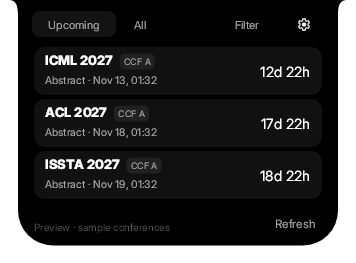
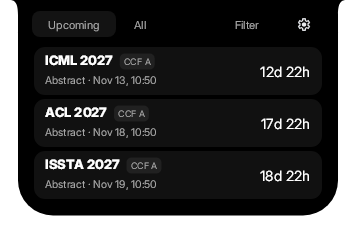
Remove island list footer and tighten panel spacing

diff --git a/windows-island/UiRegressionChecks.cs b/windows-island/UiRegressionChecks.cs
@@ -20,12 +20,11 @@ internal static class UiRegressionChecks
         var originalRows = model.Rows;
         var originalPreferences = model.Preferences;
         var originalSave = model.SavePreferences;
-        var originalRefresh = model.Refresh;
         int originalSelection = model.SelectedIndex;
         var conferences = originalRows.Select(row => row.Conference).ToArray();
         string folder = Path.Combine(Path.GetTempPath(), "ccf-island-ui-" + Guid.NewGuid().ToString("N"));
         string settings = Path.Combine(folder, "settings.json");
-        int checks = 0, saves = 0, refreshes = 0;
+        int checks = 0, saves = 0;
         void Check(bool success, string description)
         {
             if (!success) throw new InvalidOperationException("Production UI: " + description);
@@ -61,10 +60,9 @@ internal static class UiRegressionChecks
                 if (!model.Preferences.Save(settings)) throw new InvalidOperationException("Cannot save temporary UI preferences");
                 model.Rows = model.Preferences.Visible(conferences, DateTimeOffset.UtcNow);
             };
-            model.Refresh = () => refreshes++;
 
             Page("widgets");
-            Check(menu.IslandSizeBig().X == 320 && menu.IslandSizeBig().Y == 248, "three-conference layout is 320x248 DIP");
+            Check(menu.IslandSizeBig().X == 320 && menu.IslandSizeBig().Y == 218, "three-conference layout is 320x218 DIP");
             Check(!menu.UiObjects.Any(item => item.GetType().Name == "DWImageButton"), "no music transport controls");
             Click("nav.filters"); renderer.Settle(true);
             Check(menu.Page == "filters" && menu.IslandSizeBig().Y == 288, "compact filters page");
@@ -126,7 +124,6 @@ internal static class UiRegressionChecks
             Click("display.animations");
 
             Page("widgets");
-            Click("list.refresh"); Check(refreshes == 1, "refresh is reachable from list footer");
             string selectedId = ((ConferenceMenu.ConferenceRow)Control("upcoming.row.1")).BoundId;
             Click("upcoming.row.1"); renderer.Settle(true);
             Check(menu.Page == "details" && menu.Selected?.Id == selectedId, "conference row opens its own deadline details");
@@ -153,13 +150,13 @@ internal static class UiRegressionChecks
                 model.Rows = new Preferences().Visible(conferences.Take(count), now);
                 Page("widgets");
                 Check(Enumerable.Range(0, 3).Count(index => Control("upcoming.row." + index).ImmediateInputEnabled) == count, count + " conferences expose exactly the available rows");
-                float expected = count == 0 ? 160 : 92 + 52 * count;
+                float expected = count == 0 ? 146 : 62 + 52 * count;
                 Check(menu.IslandSizeBig().Y == expected, count + " conferences use compact non-overlapping geometry");
                 var island = renderer.MainIsland.GetRect().Rect;
                 for (int index = 0; index < count; index++)
                 {
                     var bounds = Control("upcoming.row." + index).GetInputRect().Rect;
-                    Check(bounds.Left >= island.Left && bounds.Right <= island.Right && bounds.Top >= island.Top + 48 && bounds.Bottom <= island.Bottom - 40, "row stays inside shell and above footer");
+                    Check(bounds.Left >= island.Left && bounds.Right <= island.Right && bounds.Top >= island.Top + 48 && bounds.Bottom <= island.Bottom - 16, "row stays inside shell with bottom padding");
                 }
             }
             var longTitle = conferences[0] with { Id = "long-title", Title = "International Conference on a Very Long Conference Name for Layout Verification" };
@@ -182,7 +179,7 @@ internal static class UiRegressionChecks
                 Deadlines = new() { later with { Utc = now.AddDays(index + 2) } }
             }).ToArray();
             model.Rows = new Preferences().Visible(allConferences, now); Page("list");
-            Check(menu.IslandSizeBig().Y == 360, "all-conferences page has separate scrollable height");
+            Check(menu.IslandSizeBig().Y == 322, "all-conferences page has separate scrollable height");
             Check(((ConferenceMenu.ConferenceRow)Control("list.row.0")).BoundId == "scroll-0", "all-conferences list starts at first row");
             menu.Scroll(-120); renderer.Settle(true);
             Check(((ConferenceMenu.ConferenceRow)Control("list.row.0")).BoundId == "scroll-1", "all-conferences list scrolls through later rows");
@@ -213,7 +210,7 @@ internal static class UiRegressionChecks
         {
             renderer.Input.CancelAll();
             model.Rows = originalRows; model.Preferences = originalPreferences; model.SavePreferences = originalSave;
-            model.Refresh = originalRefresh; model.SelectedIndex = originalSelection;
+            model.SelectedIndex = originalSelection;
             menu.ShowPage("widgets"); renderer.Settle(true);
             if (File.Exists(settings)) File.Delete(settings);
             if (Directory.Exists(folder)) Directory.Delete(folder);

diff --git a/windows-island/DynamicWinHost/ConferenceMenu.cs b/windows-island/DynamicWinHost/ConferenceMenu.cs
@@ -52,12 +52,9 @@ public sealed class ConferenceMenu : IIslandMenu
     private readonly ToggleButton _submission;
     private readonly ToggleButton _animations;
     private readonly Label _empty;
-    private readonly Label _status;
-    private readonly Label _pageNumber;
     private readonly Label _detailTitle;
     private readonly Label _detailPage;
     private readonly DeadlinePanel[] _detailPanels = new DeadlinePanel[2];
-    private readonly MenuButton _refresh;
     private readonly MenuButton _emptyAction;
     private readonly MenuButton _previousDeadlines;
     private readonly MenuButton _nextDeadlines;
@@ -110,10 +107,6 @@ public sealed class ConferenceMenu : IIslandMenu
         {
             if (HasFilters()) ResetFilters(); else _model.Refresh?.Invoke();
         });
-        _status = new Label(island, 16, 220, 176, 17, 10, Theme.TextThird);
-        _pageNumber = new Label(island, 190, 334, 54, 17, 10, Theme.TextThird) { Center = true };
-        UiObjects.Add(_status); UiObjects.Add(_pageNumber);
-        _refresh = Button("list.refresh", "Refresh", 250, 214, 54, 24, () => _model.Refresh?.Invoke());
 
         AddLabel("filters", "CCF rank", 16, 50, 288, 18, 11, Theme.TextSecond);
         for (int index = 0; index < Preferences.CcfValues.Length; index++)
@@ -177,8 +170,8 @@ public sealed class ConferenceMenu : IIslandMenu
     }
     public Vec2 IslandSizeBig() => new(320, Page switch
     {
-        "filters" => 288, "display" => 180, "list" => 360, "details" => 352,
-        _ => _model.Rows.Count == 0 ? 160 : 92 + 52 * Math.Min(3, _model.Rows.Count)
+        "filters" => 288, "display" => 180, "list" => 322, "details" => 352,
+        _ => _model.Rows.Count == 0 ? 146 : 62 + 52 * Math.Min(3, _model.Rows.Count)
     });
     public Col IslandBorderColor() => Col.Transparent;
 
@@ -249,14 +242,6 @@ public sealed class ConferenceMenu : IIslandMenu
         _empty.Text = _model.Loading ? "Loading conferences..." : HasFilters() ? "No matching conferences" : "No upcoming conferences";
         _emptyAction.SetActive(expanded && listPage && empty && !_model.Loading);
         _emptyAction.Text = HasFilters() ? "Reset filters" : "Retry";
-        float height = IslandSizeBig().Y;
-        _status.Position = new Vec2(16, height - 27);
-        _status.Text = _model.Status; _status.SetActive(expanded && listPage);
-        _refresh.Position = new Vec2(250, height - 34); _refresh.Text = _model.Loading ? "..." : _model.Status.StartsWith("Offline", StringComparison.Ordinal) ? "Retry" : "Refresh";
-        _refresh.AcceptsInput = !_model.Loading;
-        _refresh.SetActive(expanded && listPage);
-        _pageNumber.Text = _model.Rows.Count == 0 ? "" : $"{_listOffset + 1}-{Math.Min(_model.Rows.Count, _listOffset + 5)}/{_model.Rows.Count}";
-        _pageNumber.SetActive(expanded && Page == "list");
         UpdateDetails(expanded);
     }
 

diff --git a/windows-island/Services/DeadlineService.cs b/windows-island/Services/DeadlineService.cs
@@ -18,7 +18,7 @@ public sealed class DeadlineService : IDisposable
     {
         _cachePath = cachePath;
         _client = client ?? new HttpClient { Timeout = TimeSpan.FromSeconds(12) };
-        _client.DefaultRequestHeaders.UserAgent.ParseAdd("CCF-Deadline-Island/0.1.1");
+        _client.DefaultRequestHeaders.UserAgent.ParseAdd("CCF-Deadline-Island/0.1.2");
     }
 
     public async Task<DeadlineSnapshot> FetchAsync(IEnumerable<string>? urls = null, CancellationToken cancellation = default)

diff --git a/windows-island/README.md b/windows-island/README.md
@@ -6,7 +6,8 @@ Windows 灵动岛版 CCF 截止时间工具。界面直接使用
 
 ![Upcoming conferences](docs/screenshots/upcoming.png)
 
-0.1.1 的实际渲染截图与验收记录见 [QA-0.1.1](docs/QA-0.1.1.md)。
+0.1.2 移除了列表底部整行状态与刷新按钮，并收紧底部留白。
+交互与定位验收记录见 [QA-0.1.1](docs/QA-0.1.1.md)。
 
 上游默认 `V2` 分支只提供发行文件。本项目使用其公开 `main` 分支的源码，固定在
 `9f24d176a16333b1cfda21dd3ed48087497194ed`；63 个原始源码/资源文件及许可证位于
@@ -41,8 +42,8 @@ dotnet run --project windows-island/CcfDeadlineIsland.csproj
 输出：
 
 ```text
-artifacts/windows-island-0.1.1/
-artifacts/CCF-Deadline-Island_0.1.1_x64-setup.exe
+artifacts/windows-island-0.1.2/
+artifacts/CCF-Deadline-Island_0.1.2_x64-setup.exe
 ```
 
 `./windows-island/Build.ps1 -PublishOnly` 只生成自包含应用。分发整个输出目录，以保留字体、图标和许可证文件。
